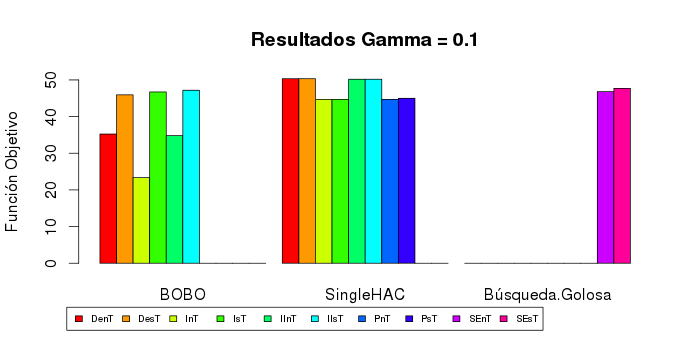
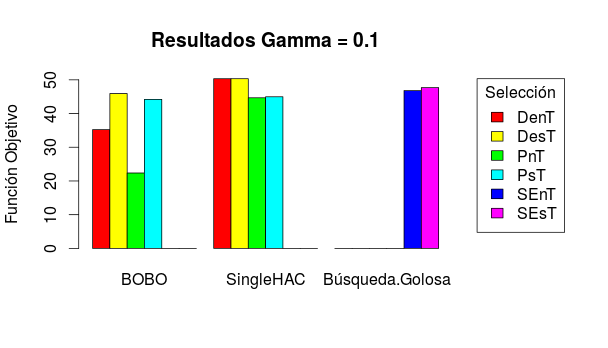
Infome. Resutados de las instituciones agregados, correcion de los graficos y se quitan las estrategias que sobraban

diff --git a/src/util/algorithm/localSearch.cpp b/src/util/algorithm/localSearch.cpp
@@ -167,7 +167,7 @@ int LocalSearch::findCentroid(SnowFlake worstFlake, ProblemInstance &theProblem)
 int LocalSearch::findFarAwayElement(int centroid, SnowFlake worstFlake, ProblemInstance &theProblem) {
     int farAwayBundle = -1;
     // TODO: REEMPLAZAR URGENTE este tres por el numero total de categorias que exista o simplemente mejorar esto para que no apareca de esta manera
-    if (worstFlake.ids().size() == 3) {
+    if (worstFlake.ids().size() == 5) {
         double minSimilarity = std::numeric_limits<double>::max();
         for (auto element : worstFlake.ids()) {
             if (element != centroid) {
